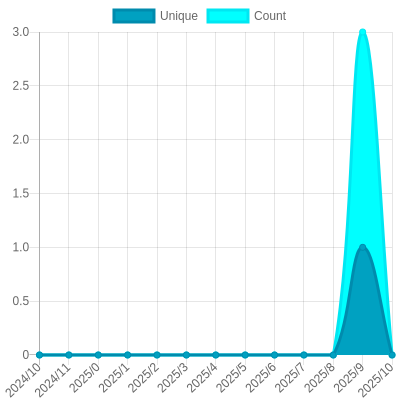
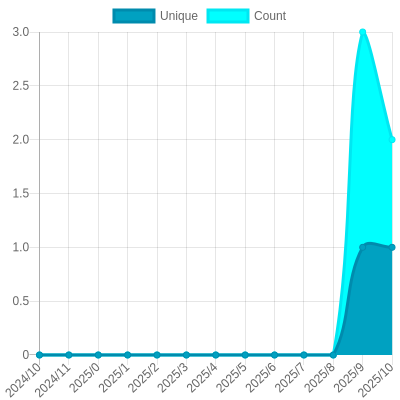
Update views

diff --git a/readme/859286226/year.md b/readme/859286226/year.md
@@ -23,10 +23,10 @@
 			<code>2024/11/1</code>
 		</td>
 		<td>
-			<code>0</code>
+			<code>1</code>
 		</td>
 		<td>
-			<code>0</code>
+			<code>2</code>
 		</td>
 	</tr>
 	<tr>
@@ -164,7 +164,7 @@
 </table>
 
 </details>
-<small><i>Last updated on 2024/11/28 6:35 AM UTC</i></small>
+<small><i>Last updated on 2024/11/28 12:51 PM UTC</i></small>
 
 ## ✂Copy and 📋 Paste
 ### SVG Badge

diff --git a/README.md b/README.md
@@ -293,7 +293,7 @@ The project created and maintained by [gayanvoice](https://github.com/gayanvoice
 	</tr>
 </table>
 
-<small><i>Last updated on 2024/11/28 6:36 AM UTC</i></small>
+<small><i>Last updated on 2024/11/28 12:52 PM UTC</i></small>
 
 ## ✂Copy and 📋 Paste
 ### Total Views Badge

diff --git a/readme/803763063/year.md b/readme/803763063/year.md
@@ -164,7 +164,7 @@
 </table>
 
 </details>
-<small><i>Last updated on 2024/11/28 6:36 AM UTC</i></small>
+<small><i>Last updated on 2024/11/28 12:52 PM UTC</i></small>
 
 ## ✂Copy and 📋 Paste
 ### SVG Badge

diff --git a/readme/811493075/year.md b/readme/811493075/year.md
@@ -164,7 +164,7 @@
 </table>
 
 </details>
-<small><i>Last updated on 2024/11/28 6:35 AM UTC</i></small>
+<small><i>Last updated on 2024/11/28 12:52 PM UTC</i></small>
 
 ## ✂Copy and 📋 Paste
 ### SVG Badge

diff --git a/readme/817721168/year.md b/readme/817721168/year.md
@@ -164,7 +164,7 @@
 </table>
 
 </details>
-<small><i>Last updated on 2024/11/28 6:35 AM UTC</i></small>
+<small><i>Last updated on 2024/11/28 12:52 PM UTC</i></small>
 
 ## ✂Copy and 📋 Paste
 ### SVG Badge

diff --git a/readme/856885304/year.md b/readme/856885304/year.md
@@ -164,7 +164,7 @@
 </table>
 
 </details>
-<small><i>Last updated on 2024/11/28 6:35 AM UTC</i></small>
+<small><i>Last updated on 2024/11/28 12:51 PM UTC</i></small>
 
 ## ✂Copy and 📋 Paste
 ### SVG Badge

diff --git a/readme/857295408/year.md b/readme/857295408/year.md
@@ -164,7 +164,7 @@
 </table>
 
 </details>
-<small><i>Last updated on 2024/11/28 6:36 AM UTC</i></small>
+<small><i>Last updated on 2024/11/28 12:52 PM UTC</i></small>
 
 ## ✂Copy and 📋 Paste
 ### SVG Badge

diff --git a/readme/857322064/year.md b/readme/857322064/year.md
@@ -164,7 +164,7 @@
 </table>
 
 </details>
-<small><i>Last updated on 2024/11/28 6:36 AM UTC</i></small>
+<small><i>Last updated on 2024/11/28 12:52 PM UTC</i></small>
 
 ## ✂Copy and 📋 Paste
 ### SVG Badge

diff --git a/readme/857352945/year.md b/readme/857352945/year.md
@@ -164,7 +164,7 @@
 </table>
 
 </details>
-<small><i>Last updated on 2024/11/28 6:35 AM UTC</i></small>
+<small><i>Last updated on 2024/11/28 12:51 PM UTC</i></small>
 
 ## ✂Copy and 📋 Paste
 ### SVG Badge

diff --git a/readme/858019578/year.md b/readme/858019578/year.md
@@ -164,7 +164,7 @@
 </table>
 
 </details>
-<small><i>Last updated on 2024/11/28 6:35 AM UTC</i></small>
+<small><i>Last updated on 2024/11/28 12:51 PM UTC</i></small>
 
 ## ✂Copy and 📋 Paste
 ### SVG Badge

diff --git a/readme/858311554/year.md b/readme/858311554/year.md
@@ -164,7 +164,7 @@
 </table>
 
 </details>
-<small><i>Last updated on 2024/11/28 6:35 AM UTC</i></small>
+<small><i>Last updated on 2024/11/28 12:51 PM UTC</i></small>
 
 ## ✂Copy and 📋 Paste
 ### SVG Badge

diff --git a/readme/858679728/year.md b/readme/858679728/year.md
@@ -164,7 +164,7 @@
 </table>
 
 </details>
-<small><i>Last updated on 2024/11/28 6:35 AM UTC</i></small>
+<small><i>Last updated on 2024/11/28 12:51 PM UTC</i></small>
 
 ## ✂Copy and 📋 Paste
 ### SVG Badge
